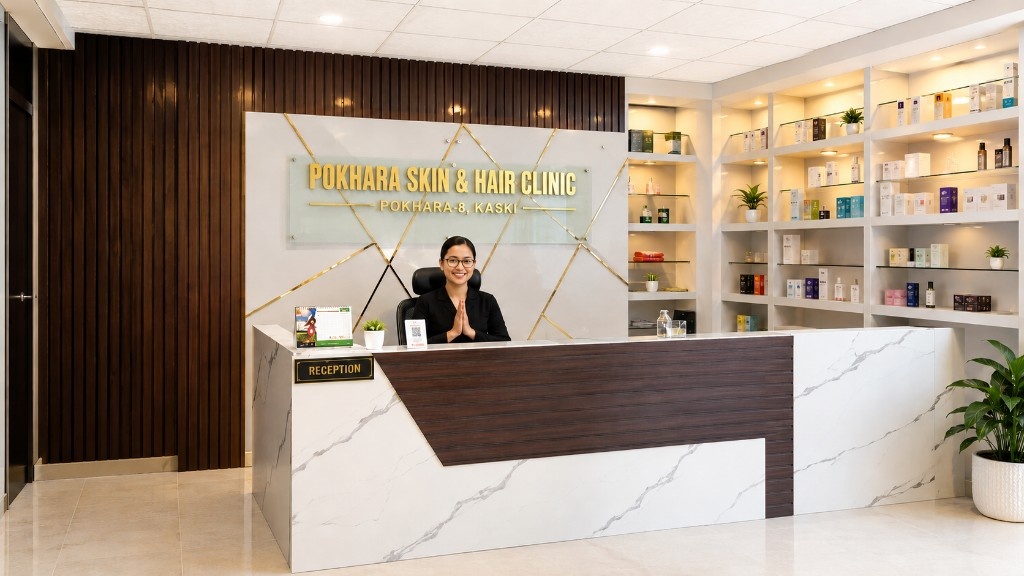
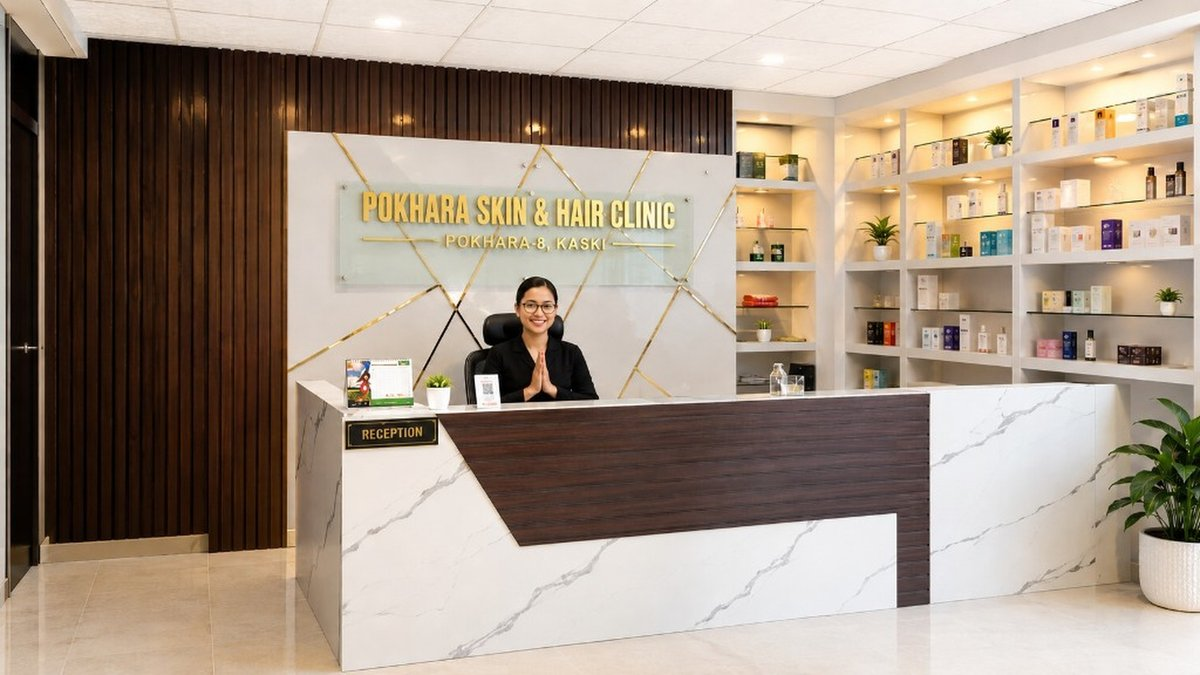
Fix mobile hero photo mismatch and reduced-motion crash.

diff --git a/src/components/Hero.tsx b/src/components/Hero.tsx
@@ -47,40 +47,42 @@ export default function Hero() {
     });
   };
 
-  const stagger = prefersReducedMotion
+  const reduceMotion = Boolean(prefersReducedMotion);
+  const entrance = reduceMotion
     ? {}
     : {
         initial: { opacity: 0, y: 12 },
         animate: { opacity: 1, y: 0 },
-        transition: { duration: 0.5, ease: [0.22, 1, 0.36, 1] as const },
       };
+  const entranceEase = [0.22, 1, 0.36, 1] as const;
 
   return (
     <section className="hero-section" aria-labelledby="hero-heading">
       <div className="hero-media absolute inset-0 z-0">
+        {/*
+          Same reception photo at every breakpoint. Desktop gets the 1920 JPEG;
+          smaller viewports get a WebP derived from that same frame (not a
+          different clinic shot). JPEG remains the no-WebP fallback.
+        */}
         <picture>
           <source
             media="(min-width: 1024px)"
-            srcSet="/images/hero/clinic-hero@1920.jpg?v=5"
+            srcSet="/images/hero/clinic-hero@1920.jpg?v=6"
             width={1920}
             height={1080}
           />
-          {/*
-            Below 1024px the 44KB WebP is served instead of the 130KB PNG. The
-            PNG stays as the final fallback for browsers without WebP support.
-          */}
           <source
-            srcSet="/images/hero/clinic-hero.webp?v=5"
+            srcSet="/images/hero/clinic-hero.webp?v=6"
             type="image/webp"
-            width={1024}
-            height={576}
+            width={1280}
+            height={720}
           />
           <img
-            src="/images/hero/clinic-hero.png?v=5"
-            alt={`${clinic.nameShort} exterior — Nayabazar-8, opposite GMC Hospital, Pokhara`}
+            src="/images/hero/clinic-hero.jpg?v=6"
+            alt={`${clinic.nameShort} reception — Nayabazar-8, opposite GMC Hospital, Pokhara`}
             className="hero-bg-image h-full w-full"
-            width={1024}
-            height={576}
+            width={1280}
+            height={720}
             decoding="async"
             fetchPriority="high"
           />
@@ -92,8 +94,10 @@ export default function Hero() {
         <div className="hero-bottom-band">
           <motion.div
             className="hero-main-card"
-            {...stagger}
-            transition={{ ...stagger.transition, delay: 0 }}
+            {...entrance}
+            transition={
+              reduceMotion ? undefined : { duration: 0.5, ease: entranceEase, delay: 0 }
+            }
           >
             <div className="hero-eyebrow">
               <p className="hero-brand">{clinic.nameShort}</p>
@@ -129,8 +133,10 @@ export default function Hero() {
           <motion.aside
             className="hero-info-card"
             aria-label="Clinic hours and location"
-            {...stagger}
-            transition={{ ...stagger.transition, delay: 0.12 }}
+            {...entrance}
+            transition={
+              reduceMotion ? undefined : { duration: 0.5, ease: entranceEase, delay: 0.12 }
+            }
           >
             <div className="hero-info-card__row">
               <span className="hero-info-card__icon hero-info-card__icon--accent">

diff --git a/index.html b/index.html
@@ -24,20 +24,20 @@
     <link rel="apple-touch-icon" href="/favicon.png?v=4" />
     <!--
       Hero preload is media-scoped so each viewport fetches exactly one file.
-      Previously a single unconditional preload of the 130KB PNG meant desktop
-      downloaded it *and* the 341KB JPEG that <picture> actually rendered.
+      Mobile WebP is derived from the same reception photo as the desktop JPEG
+      (not a different clinic shot).
     -->
     <link
       rel="preload"
       as="image"
-      href="/images/hero/clinic-hero@1920.jpg?v=5"
+      href="/images/hero/clinic-hero@1920.jpg?v=6"
       media="(min-width: 1024px)"
       fetchpriority="high"
     />
     <link
       rel="preload"
       as="image"
-      href="/images/hero/clinic-hero.webp?v=5"
+      href="/images/hero/clinic-hero.webp?v=6"
       type="image/webp"
       media="(max-width: 1023px)"
       fetchpriority="high"

diff --git a/src/data/gallery.ts b/src/data/gallery.ts
@@ -17,9 +17,9 @@ export const fallbackGallery: GalleryItem[] = [
     isTall: false,
   },
   {
-    id: 'fallback-exterior',
+    id: 'fallback-reception',
     imageUrl: '/images/hero/clinic-hero.webp',
-    label: 'Clinic exterior',
+    label: 'Clinic reception',
     tag: 'Nayabazar',
     isTall: true,
   },
